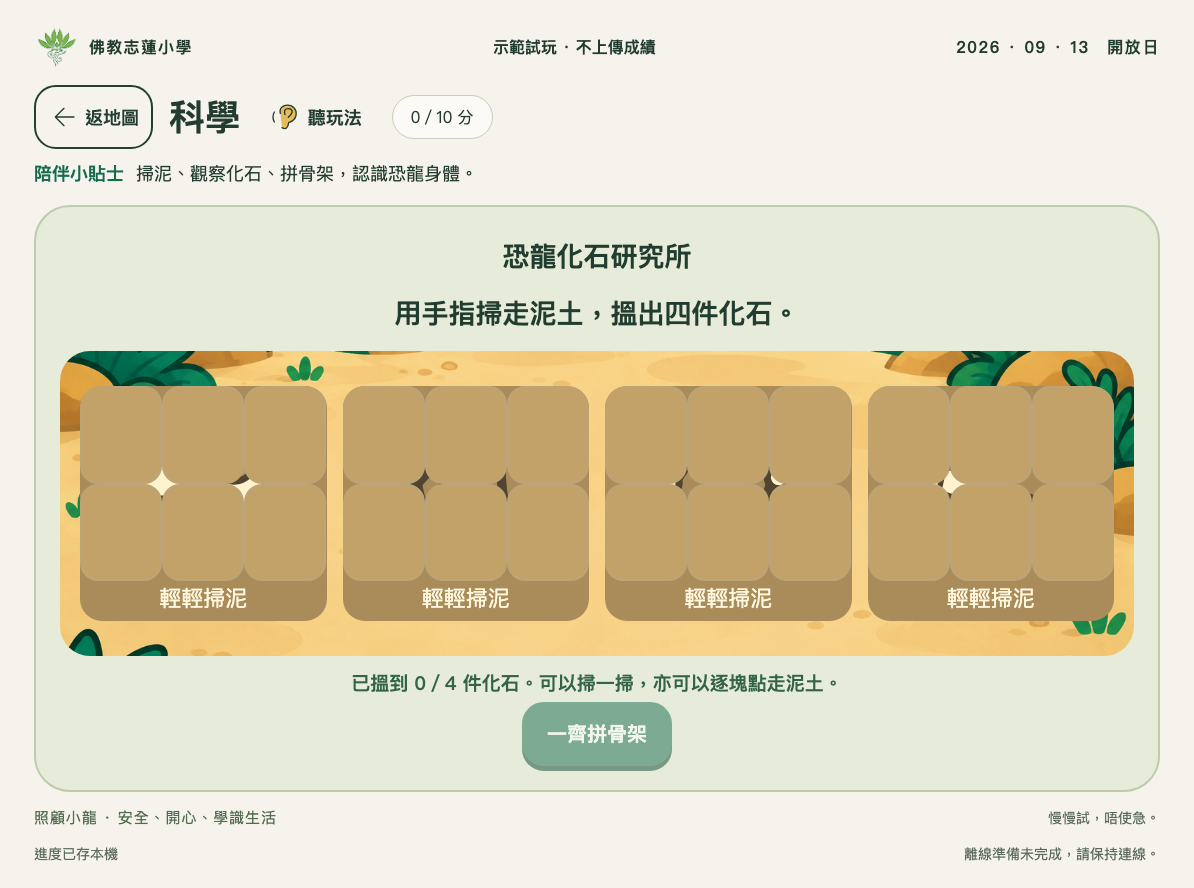
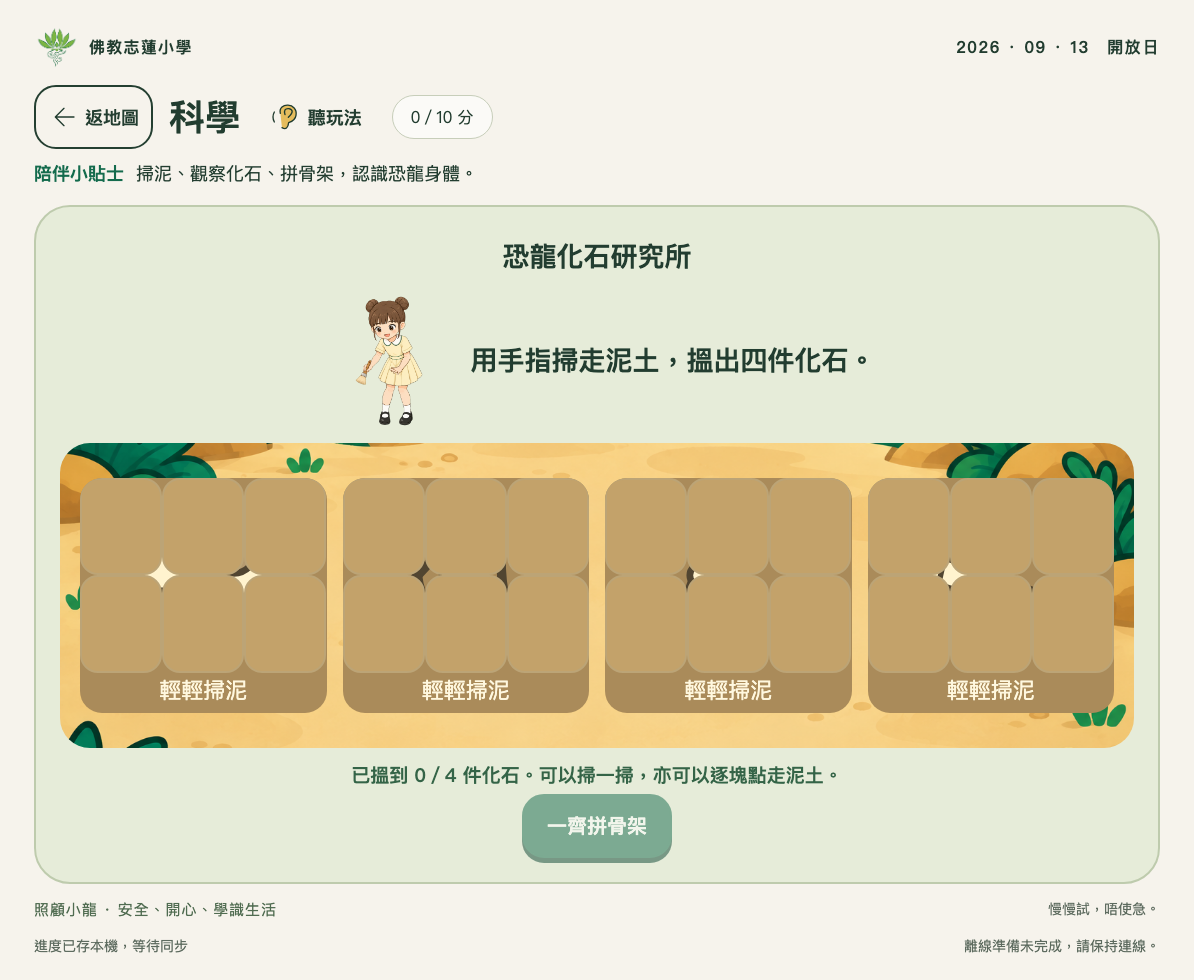
Complete explorer and scientist artwork with tested game integration

diff --git a/sw.js b/sw.js
@@ -1,7 +1,7 @@
 // Generated precache manifest. Rebuild whenever local assets change.
-const CACHE='dino-island-14a268ecd65b';
+const CACHE='dino-island-6933cd37c9b3';
 const BASE=new URL('./',self.location.href);
-const ASSETS=["board/board.css","board/board.js","board/img/board-skin.png","board/index.html","hub/app.js","hub/audio/en/actions/freeze.wav","hub/audio/en/actions/hands.wav","hub/audio/en/actions/jump.wav","hub/audio/en/actions/left.wav","hub/audio/en/actions/right.wav","hub/audio/en/actions/sit.wav","hub/audio/en/actions/stand.wav","hub/audio/yue/actions/freeze.wav","hub/audio/yue/actions/hands.wav","hub/audio/yue/actions/left.wav","hub/audio/yue/actions/right.wav","hub/audio/yue/actions/sit.wav","hub/audio/yue/characters/fire.wav","hub/audio/yue/characters/moon.wav","hub/audio/yue/characters/mountain.wav","hub/audio/yue/characters/sun.wav","hub/audio/yue/characters/water.wav","hub/audio/yue/characters/wood.wav","hub/audio/yue/common/complete.wav","hub/audio/yue/common/hint.wav","hub/audio/yue/common/retry.wav","hub/audio/yue/common/welcome.wav","hub/audio/yue/intro/art.wav","hub/audio/yue/intro/chinese.wav","hub/audio/yue/intro/computing.wav","hub/audio/yue/intro/english.wav","hub/audio/yue/intro/general.wav","hub/audio/yue/intro/humanities.wav","hub/audio/yue/intro/mandarin.wav","hub/audio/yue/intro/math.wav","hub/audio/yue/intro/music.wav","hub/audio/yue/intro/pe.wav","hub/audio/yue/intro/science.wav","hub/audio/zh-CN/greetings/goodbye.wav","hub/audio/zh-CN/greetings/hello.wav","hub/audio/zh-CN/greetings/morning.wav","hub/audio/zh-CN/greetings/please.wav","hub/audio/zh-CN/greetings/thanks.wav","hub/audio/zh-CN/greetings/welcome.wav","hub/certificate.js","hub/games.js","hub/img/chars/dino-baby-eat.png","hub/img/chars/dino-baby-sleep.png","hub/img/chars/dino-baby.png","hub/img/chars/landmark-hatch.png","hub/img/chars/landmark-longneck.png","hub/img/chars/landmark-triceratops.png","hub/img/chars/xiaolian-clap.png","hub/img/chars/xiaolian-color.png","hub/img/chars/xiaolian-highfive.png","hub/img/chars/xiaolian-point.png","hub/img/chars/xiaolian-welcome.png","hub/img/chars/xiaolian-write.png","hub/img/chars/xiaozhi-highfive.png","hub/img/chars/xiaozhi-jump.png","hub/img/chars/xiaozhi-run.png","hub/img/chars/xiaozhi-sit.png","hub/img/chars/xiaozhi-step.png","hub/img/chars/xiaozhi-stretch.png","hub/img/chars/xiaozhi-tablet.png","hub/img/chars/xiaozhi-welcome.png","hub/img/games/art/dino-hatching.png","hub/img/games/art/egg-studio.png","hub/img/games/art/xiaozhi-surprised.png","hub/img/games/chinese/dino-drinking.png","hub/img/games/chinese/dino-walking.png","hub/img/games/chinese/mountain.png","hub/img/games/chinese/river.png","hub/img/games/chinese/volcano.png","hub/img/games/computing/coding-garden.png","hub/img/games/computing/dino-robot.png","hub/img/games/english/dino-celebrate.png","hub/img/games/english/dino-hands-up.png","hub/img/games/english/dino-jump.png","hub/img/games/english/dino-left.png","hub/img/games/english/dino-right.png","hub/img/games/english/dino-squat.png","hub/img/games/general/bedtime.png","hub/img/games/general/daytime.png","hub/img/games/general/dino-playing.png","hub/img/games/general/dino-waking.png","hub/img/games/general/dino-washing.png","hub/img/games/general/morning.png","hub/img/games/humanities/river-centre.png","hub/img/games/humanities/safe-forest.png","hub/img/games/humanities/volcano-edge.png","hub/img/games/mandarin/dino-goodbye.png","hub/img/games/mandarin/dino-greeting.png","hub/img/games/mandarin/dino-listening.png","hub/img/games/mandarin/dino-thanks.png","hub/img/games/mandarin/village.png","hub/img/games/math/dino-hungry.png","hub/img/games/math/feeding-garden.png","hub/img/games/math/friend-longneck.png","hub/img/games/math/friend-triceratops.png","hub/img/games/music/dino-drum.png","hub/img/games/music/music-stage.png","hub/img/games/music/xiaolian-bell.png","hub/img/games/music/xiaozhi-percussion.png","hub/img/games/pe/dino-coach.png","hub/img/games/pe/forest-arena.png","hub/img/games/pe/forest-visitor.png","hub/img/games/science/excavation.png","hub/img/map/island-path.png","hub/img/ui/cert-frame.png","hub/index.html","hub/modules/art.js","hub/modules/chinese-scenes.js","hub/modules/computing.js","hub/modules/fossil-art.js","hub/modules/general.js","hub/modules/humanities.js","hub/modules/mandarin.js","hub/modules/math.js","hub/modules/motion.js","hub/modules/music.js","hub/modules/pe-scene.js","hub/modules/science.js","hub/park-guides.js","index.html","setup/index.html","shared/certificate-link.js","shared/config.js","shared/core.js","shared/game-clock-gate.js","shared/game-state.js","shared/icons.js","shared/img/school-logo.png","shared/models/pose-landmarker-lite-v1.task","shared/network.js","shared/offline.js","shared/pose-actions.js","shared/pose-camera.js","shared/qrcode.js","shared/recorder.js","shared/sequence.js","shared/storage.js","shared/style.css","shared/vendor/mediapipe/vision-bundle.js","shared/vendor/mediapipe/wasm/vision_wasm_internal.js","shared/vendor/mediapipe/wasm/vision_wasm_internal.wasm","shared/vendor/mediapipe/wasm/vision_wasm_nosimd_internal.js","shared/vendor/mediapipe/wasm/vision_wasm_nosimd_internal.wasm","shared/voice.js","hub/","board/","setup/"].map(p=>new URL(p,BASE).href);
+const ASSETS=["board/board.css","board/board.js","board/img/board-skin.png","board/index.html","hub/app.js","hub/audio/en/actions/freeze.wav","hub/audio/en/actions/hands.wav","hub/audio/en/actions/jump.wav","hub/audio/en/actions/left.wav","hub/audio/en/actions/right.wav","hub/audio/en/actions/sit.wav","hub/audio/en/actions/stand.wav","hub/audio/yue/actions/freeze.wav","hub/audio/yue/actions/hands.wav","hub/audio/yue/actions/left.wav","hub/audio/yue/actions/right.wav","hub/audio/yue/actions/sit.wav","hub/audio/yue/characters/fire.wav","hub/audio/yue/characters/moon.wav","hub/audio/yue/characters/mountain.wav","hub/audio/yue/characters/sun.wav","hub/audio/yue/characters/water.wav","hub/audio/yue/characters/wood.wav","hub/audio/yue/common/complete.wav","hub/audio/yue/common/hint.wav","hub/audio/yue/common/retry.wav","hub/audio/yue/common/welcome.wav","hub/audio/yue/intro/art.wav","hub/audio/yue/intro/chinese.wav","hub/audio/yue/intro/computing.wav","hub/audio/yue/intro/english.wav","hub/audio/yue/intro/general.wav","hub/audio/yue/intro/humanities.wav","hub/audio/yue/intro/mandarin.wav","hub/audio/yue/intro/math.wav","hub/audio/yue/intro/music.wav","hub/audio/yue/intro/pe.wav","hub/audio/yue/intro/science.wav","hub/audio/zh-CN/greetings/goodbye.wav","hub/audio/zh-CN/greetings/hello.wav","hub/audio/zh-CN/greetings/morning.wav","hub/audio/zh-CN/greetings/please.wav","hub/audio/zh-CN/greetings/thanks.wav","hub/audio/zh-CN/greetings/welcome.wav","hub/certificate.js","hub/games.js","hub/img/chars/dino-baby-eat.png","hub/img/chars/dino-baby-sleep.png","hub/img/chars/dino-baby.png","hub/img/chars/landmark-hatch.png","hub/img/chars/landmark-longneck.png","hub/img/chars/landmark-triceratops.png","hub/img/chars/xiaolian-clap.png","hub/img/chars/xiaolian-color.png","hub/img/chars/xiaolian-highfive.png","hub/img/chars/xiaolian-point.png","hub/img/chars/xiaolian-welcome.png","hub/img/chars/xiaolian-write.png","hub/img/chars/xiaozhi-highfive.png","hub/img/chars/xiaozhi-jump.png","hub/img/chars/xiaozhi-run.png","hub/img/chars/xiaozhi-sit.png","hub/img/chars/xiaozhi-step.png","hub/img/chars/xiaozhi-stretch.png","hub/img/chars/xiaozhi-tablet.png","hub/img/chars/xiaozhi-welcome.png","hub/img/games/art/dino-hatching.png","hub/img/games/art/egg-studio.png","hub/img/games/art/xiaozhi-surprised.png","hub/img/games/chinese/dino-drinking.png","hub/img/games/chinese/dino-walking.png","hub/img/games/chinese/mountain.png","hub/img/games/chinese/river.png","hub/img/games/chinese/volcano.png","hub/img/games/computing/coding-garden.png","hub/img/games/computing/dino-robot.png","hub/img/games/english/dino-celebrate.png","hub/img/games/english/dino-hands-up.png","hub/img/games/english/dino-jump.png","hub/img/games/english/dino-left.png","hub/img/games/english/dino-right.png","hub/img/games/english/dino-squat.png","hub/img/games/general/bedtime.png","hub/img/games/general/daytime.png","hub/img/games/general/dino-playing.png","hub/img/games/general/dino-waking.png","hub/img/games/general/dino-washing.png","hub/img/games/general/morning.png","hub/img/games/humanities/river-centre.png","hub/img/games/humanities/safe-forest.png","hub/img/games/humanities/volcano-edge.png","hub/img/games/humanities/xiaolian-explorer.png","hub/img/games/humanities/xiaozhi-explorer.png","hub/img/games/mandarin/dino-goodbye.png","hub/img/games/mandarin/dino-greeting.png","hub/img/games/mandarin/dino-listening.png","hub/img/games/mandarin/dino-thanks.png","hub/img/games/mandarin/village.png","hub/img/games/math/dino-hungry.png","hub/img/games/math/feeding-garden.png","hub/img/games/math/friend-longneck.png","hub/img/games/math/friend-triceratops.png","hub/img/games/music/dino-drum.png","hub/img/games/music/music-stage.png","hub/img/games/music/xiaolian-bell.png","hub/img/games/music/xiaozhi-percussion.png","hub/img/games/pe/dino-coach.png","hub/img/games/pe/forest-arena.png","hub/img/games/pe/forest-visitor.png","hub/img/games/science/excavation.png","hub/img/games/science/xiaolian-scientist.png","hub/img/games/science/xiaozhi-scientist.png","hub/img/map/island-path.png","hub/img/ui/cert-frame.png","hub/index.html","hub/modules/art.js","hub/modules/chinese-scenes.js","hub/modules/computing.js","hub/modules/fossil-art.js","hub/modules/general.js","hub/modules/humanities.js","hub/modules/mandarin.js","hub/modules/math.js","hub/modules/motion.js","hub/modules/music.js","hub/modules/pe-scene.js","hub/modules/science.js","hub/park-guides.js","index.html","setup/index.html","shared/certificate-link.js","shared/config.js","shared/core.js","shared/game-clock-gate.js","shared/game-state.js","shared/icons.js","shared/img/school-logo.png","shared/models/pose-landmarker-lite-v1.task","shared/network.js","shared/offline.js","shared/pose-actions.js","shared/pose-camera.js","shared/qrcode.js","shared/recorder.js","shared/sequence.js","shared/storage.js","shared/style.css","shared/vendor/mediapipe/vision-bundle.js","shared/vendor/mediapipe/wasm/vision_wasm_internal.js","shared/vendor/mediapipe/wasm/vision_wasm_internal.wasm","shared/vendor/mediapipe/wasm/vision_wasm_nosimd_internal.js","shared/vendor/mediapipe/wasm/vision_wasm_nosimd_internal.wasm","shared/voice.js","hub/","board/","setup/"].map(p=>new URL(p,BASE).href);
 self.addEventListener('install',e=>e.waitUntil(caches.open(CACHE).then(c=>c.addAll(ASSETS))));
 self.addEventListener('activate',e=>e.waitUntil(Promise.all([caches.keys().then(keys=>Promise.all(keys.filter(k=>k.startsWith('dino-island-')&&k!==CACHE).map(k=>caches.delete(k)))),self.clients.claim()])));
 self.addEventListener('message',e=>{if(e.data?.type!=='CHECK_OFFLINE'||!e.ports[0])return;e.waitUntil(caches.open(CACHE).then(async c=>{const present=await Promise.all(ASSETS.map(url=>c.match(url)));e.ports[0].postMessage({type:'OFFLINE_STATUS',version:CACHE,complete:present.every(Boolean),missing:present.filter(r=>!r).length,total:ASSETS.length});}).catch(()=>e.ports[0].postMessage({type:'OFFLINE_STATUS',complete:false,missing:ASSETS.length,total:ASSETS.length})));});

diff --git a/hub/modules/science.js b/hub/modules/science.js
@@ -7,7 +7,7 @@ export function mountScience(root,state,save,finish){
  const clearGesture=()=>{drag=null;brushing=null;selected=null;ghost?.remove();ghost=null;root.querySelectorAll('.fossil-chosen').forEach(n=>n.classList.remove('fossil-chosen'));};
  function render(){
   clearGesture();const found=parts.filter(id=>(state.cleared[id]?.length||0)===6);
-  root.innerHTML=`<h2 class="game-instruction">恐龍化石研究所</h2><p class="game-instruction">${state.phase==='dig'?'用手指掃走泥土，搵出四件化石。':state.phase==='assemble'?'睇形狀，將四件化石放返骨架。':'拼好骨架，試下想像恐龍生前嘅外形。'}</p>${state.phase==='dig'?`<div class="fossil-dig" aria-label="四個化石發掘位置">${parts.map(id=>`<div class="fossil-pit" data-pit="${id}">${fossil(id)}<div class="soil-cover">${Array.from({length:6},(_,i)=>`<button data-soil="${id}:${i}" aria-label="掃開${names[id]}位置第 ${i+1} 塊泥" ${state.cleared[id]?.includes(i)?'hidden':''}></button>`).join('')}</div><span>${found.includes(id)?'搵到'+names[id]:'輕輕掃泥'}</span></div>`).join('')}</div><p class="feedback" role="status">已搵到 ${found.length}／4 件化石。可以掃一掃，亦可以逐塊點走泥土。</p><div class="actions"><button class="primary" id="fossil-assemble" ${found.length===4?'':'disabled'}>一齊拼骨架</button></div>`:state.phase==='assemble'?`<div class="fossil-skeleton" aria-label="恐龍骨架拼合位置">${skeleton(state.placed)}${parts.map(id=>`<button class="fossil-slot fossil-${id} ${state.placed.includes(id)?'is-placed':''}" data-slot="${id}" aria-label="${names[id]}位置"><span>${state.placed.includes(id)?'✓ ':''}${names[id]}</span></button>`).join('')}</div><div class="choices fossil-tray">${['tail','legs','head','body'].map(id=>`<button class="choice" data-piece="${id}" aria-label="拿起${names[id]}" ${state.placed.includes(id)?'disabled':''}>${fossil(id)}</button>`).join('')}</div><p class="feedback" role="status">${state.placed.length===4?'骨架拼好啦！一齊睇下外形想像。':state.attempts>=2?'睇骨頭形狀，同淡色輪廓比一比。':'先點化石，再點位置；亦可以拖過去。'}</p><div class="actions">${hintLevel(state.attempts)==='guided'?'<button id="fossil-help">一齊搵相同形狀</button>':''}<button class="primary" id="fossil-reconstruct" ${state.placed.length===4?'':'disabled'}>睇外形想像</button></div>`:`<div class="fossil-reconstruction"><div class="fossil-mini">${skeleton(parts)}</div><span aria-hidden="true">→</span><img class="character" src="img/chars/dino-baby.png" alt="根據骨架作出的卡通外形想像"></div><p class="feedback" role="status">呢個係卡通外形想像，唔係恐龍復活。化石幫我哋研究以前嘅生命，認識小龍嘅身體。</p><div class="actions"><button class="primary" id="fossil-finish">完成研究任務</button></div>`}`;
+  root.innerHTML=`<h2 class="game-instruction">恐龍化石研究所</h2><div class="fossil-briefing"><img class="character fossil-guide" src="img/games/science/${state.phase==='dig'?'xiaolian':'xiaozhi'}-scientist.png" alt="${state.phase==='dig'?'小蓮用軟刷輕掃化石':'小志用放大鏡研究骨架'}"><p class="game-instruction">${state.phase==='dig'?'用手指掃走泥土，搵出四件化石。':state.phase==='assemble'?'睇形狀，將四件化石放返骨架。':'拼好骨架，試下想像恐龍生前嘅外形。'}</p></div>${state.phase==='dig'?`<div class="fossil-dig" aria-label="四個化石發掘位置">${parts.map(id=>`<div class="fossil-pit" data-pit="${id}">${fossil(id)}<div class="soil-cover">${Array.from({length:6},(_,i)=>`<button data-soil="${id}:${i}" aria-label="掃開${names[id]}位置第 ${i+1} 塊泥" ${state.cleared[id]?.includes(i)?'hidden':''}></button>`).join('')}</div><span>${found.includes(id)?'搵到'+names[id]:'輕輕掃泥'}</span></div>`).join('')}</div><p class="feedback" role="status">已搵到 ${found.length}／4 件化石。可以掃一掃，亦可以逐塊點走泥土。</p><div class="actions"><button class="primary" id="fossil-assemble" ${found.length===4?'':'disabled'}>一齊拼骨架</button></div>`:state.phase==='assemble'?`<div class="fossil-skeleton" aria-label="恐龍骨架拼合位置">${skeleton(state.placed)}${parts.map(id=>`<button class="fossil-slot fossil-${id} ${state.placed.includes(id)?'is-placed':''}" data-slot="${id}" aria-label="${names[id]}位置"><span>${state.placed.includes(id)?'✓ ':''}${names[id]}</span></button>`).join('')}</div><div class="choices fossil-tray">${['tail','legs','head','body'].map(id=>`<button class="choice" data-piece="${id}" aria-label="拿起${names[id]}" ${state.placed.includes(id)?'disabled':''}>${fossil(id)}</button>`).join('')}</div><p class="feedback" role="status">${state.placed.length===4?'骨架拼好啦！一齊睇下外形想像。':state.attempts>=2?'睇骨頭形狀，同淡色輪廓比一比。':'先點化石，再點位置；亦可以拖過去。'}</p><div class="actions">${hintLevel(state.attempts)==='guided'?'<button id="fossil-help">一齊搵相同形狀</button>':''}<button class="primary" id="fossil-reconstruct" ${state.placed.length===4?'':'disabled'}>睇外形想像</button></div>`:`<div class="fossil-reconstruction"><div class="fossil-mini">${skeleton(parts)}</div><span aria-hidden="true">→</span><img class="character" src="img/chars/dino-baby.png" alt="根據骨架作出的卡通外形想像"></div><p class="feedback" role="status">呢個係卡通外形想像，唔係恐龍復活。化石幫我哋研究以前嘅生命，認識小龍嘅身體。</p><div class="actions"><button class="primary" id="fossil-finish">完成研究任務</button></div>`}`;
   root.querySelectorAll('[data-soil]').forEach(button=>{button.onclick=()=>sweep(button);button.onpointerdown=e=>{if(e.button!==0||brushing!==null)return;brushing=e.pointerId;root.setPointerCapture(e.pointerId);sweep(button);};});
   root.onpointermove=e=>{if(e.pointerId===brushing)sweep(document.elementFromPoint(e.clientX,e.clientY)?.closest('[data-soil]'));};
   root.onpointerup=()=>{brushing=null;};root.onpointercancel=()=>clearGesture();

diff --git a/hub/modules/humanities.js b/hub/modules/humanities.js
@@ -20,7 +20,7 @@ export function mountHumanities(root,state,save,finish){
  state.round??=0;state.attempts??=0;state.roundDone??=false;let live=true,arriving=false;
  function render(){
   const task=tasks[state.round],achieved=state.round+(state.roundDone?1:0);
-  root.innerHTML=`<div class="rounds" aria-label="第 ${state.round+1} 回合，共三回合">${tasks.map((_,i)=>`<span class="round-dot ${i<=state.round?'done':''}"></span>`).join('')}</div><h2 class="game-instruction">時光探險營地</h2>${!state.started?`<div class="expedition-intro">${picture('machine')}<p>一齊玩時光機想像遊戲！<br>去恐龍島研究，幫小龍搵安全嘅生活地方。</p><button class="primary" id="expedition-start">出發去研究</button></div>`:`<p class="game-instruction">${task.title}</p><div class="expedition-camp ${arriving?'is-arriving':''}"><img class="character" src="img/chars/xiaolian-point.png" alt="小蓮帶領探險"><div class="expedition-improvements" aria-label="營地照顧成果">${achieved>=1?`<span class="${state.roundDone&&achieved===1?'camp-added':''}">${picture('camp')}安全營地</span>`:''}${achieved>=2?`<span class="${state.roundDone&&achieved===2?'camp-added':''}">${picture('bottle')}清潔飲用水</span>`:''}${achieved>=3?`<span class="${state.roundDone&&achieved===3?'camp-added':''}">${picture('forest')}樹蔭</span>`:''}</div><img class="character ${state.roundDone?'is-happy':''}" src="img/chars/dino-baby.png" alt="營地小龍"></div><div class="choices expedition-options">${state.roundDone?'':task.options.map(([id,label])=>`<button class="choice" data-expedition="${id}" aria-label="${label}">${optionPicture(id)}<span>${label}</span></button>`).join('')}</div><p class="feedback" role="status">${state.roundDone?task.reward:state.attempts>=2?task.hint:'望清楚環境，揀一樣幫小龍。'}</p><div class="actions">${!state.roundDone&&hintLevel(state.attempts)==='guided'?'<button id="expedition-help">一齊搵安全方法</button>':''}${state.roundDone?`<button class="primary" id="expedition-next">${state.round===2?'完成照顧任務':'繼續建好營地'}</button>`:''}</div>`}`;
+  root.innerHTML=`<div class="rounds" aria-label="第 ${state.round+1} 回合，共三回合">${tasks.map((_,i)=>`<span class="round-dot ${i<=state.round?'done':''}"></span>`).join('')}</div><h2 class="game-instruction">時光探險營地</h2>${!state.started?`<div class="expedition-intro">${picture('machine')}<p>一齊玩時光機想像遊戲！<br>去恐龍島研究，幫小龍搵安全嘅生活地方。</p><button class="primary" id="expedition-start">出發去研究</button></div>`:`<p class="game-instruction">${task.title}</p><div class="expedition-camp ${arriving?'is-arriving':''}"><img class="character expedition-guide" src="img/games/humanities/${state.round===1?'xiaozhi':'xiaolian'}-explorer.png" alt="${state.round===1?'小志':'小蓮'}帶領探險"><div class="expedition-improvements" aria-label="營地照顧成果">${achieved>=1?`<span class="${state.roundDone&&achieved===1?'camp-added':''}">${picture('camp')}安全營地</span>`:''}${achieved>=2?`<span class="${state.roundDone&&achieved===2?'camp-added':''}">${picture('bottle')}清潔飲用水</span>`:''}${achieved>=3?`<span class="${state.roundDone&&achieved===3?'camp-added':''}">${picture('forest')}樹蔭</span>`:''}</div><img class="character ${state.roundDone?'is-happy':''}" src="img/chars/dino-baby.png" alt="營地小龍"></div><div class="choices expedition-options">${state.roundDone?'':task.options.map(([id,label])=>`<button class="choice" data-expedition="${id}" aria-label="${label}">${optionPicture(id)}<span>${label}</span></button>`).join('')}</div><p class="feedback" role="status">${state.roundDone?task.reward:state.attempts>=2?task.hint:'望清楚環境，揀一樣幫小龍。'}</p><div class="actions">${!state.roundDone&&hintLevel(state.attempts)==='guided'?'<button id="expedition-help">一齊搵安全方法</button>':''}${state.roundDone?`<button class="primary" id="expedition-next">${state.round===2?'完成照顧任務':'繼續建好營地'}</button>`:''}</div>`}`;
   root.querySelector('#expedition-start')?.addEventListener('click',()=>{state.started=true;arriving=true;save();render();arriving=false;});
   for(const button of root.querySelectorAll('[data-expedition]'))button.onclick=()=>{
    if(!live||state.roundDone)return;

diff --git a/shared/style.css b/shared/style.css
@@ -131,3 +131,7 @@
 .pe-scene .pe-cheer{position:absolute;right:5%;bottom:6%;width:25%;height:60%;object-fit:contain;z-index:2}
 
 .band-player:not(:first-child)>.character{object-fit:cover}
+.expedition-camp>.expedition-guide{width:190px;height:190px}
+@media(max-width:600px){.expedition-camp{display:grid;grid-template-columns:repeat(2,minmax(0,1fr));justify-items:center}.expedition-camp>.character{grid-row:1;width:120px;height:140px}.expedition-camp>.expedition-guide{width:140px;height:140px}.expedition-improvements{grid-row:2;grid-column:1/-1}}
+.fossil-briefing{display:flex;align-items:center;justify-content:center;gap:12px;max-width:780px;margin:0 auto 12px}.fossil-briefing>.fossil-guide{width:140px;height:140px;flex-shrink:0}.fossil-briefing>.game-instruction{margin:0;text-align:left}
+@media(max-width:600px){.fossil-briefing{gap:4px}.fossil-briefing>.fossil-guide{width:96px;height:110px}.fossil-briefing>.game-instruction{font-size:20px}}

diff --git a/docs/V2-REVIEW.md b/docs/V2-REVIEW.md
@@ -1,6 +1,6 @@
 # 新版遊戲檢查說明
 
-更新日期：2026-09-10。分支 `game-update-v2`；目前已由 GitHub Pages workflow 發布公開預覽。正式活動前仍須完成素材及現場驗收。
+更新日期：2026-09-10。分支 `game-update-v2`；目前已由 GitHub Pages workflow 發布公開預覽。原缺漏角色素材已補齊，正式活動前仍須完成完整範圍核對及現場驗收。
 
 ## 本機檢查
 
@@ -10,12 +10,12 @@
 
 ## 已取得的驗證證據
 
-- `npm test`：45 項單元測試通過，涵蓋計分、後台計時、媒體生命週期、指令、姿態判定與描寫；新增驗收頁使用實際 Apps Script 原始碼的本機測試，包含已有玩家／Top 10 已滿，並區分連線錯誤與時間驗證錯誤。
+- `npm test`：46 項單元測試通過，涵蓋計分、後台計時、媒體生命週期、指令、姿態判定與描寫；新增驗收頁使用實際 Apps Script 原始碼的本機測試，包含已有玩家／Top 10 已滿，並區分連線錯誤與時間驗證錯誤。
 - `npm run test:browser`：同一參加者實際操作十科，驗證 5 分禁止領證、6 分證書、9 分未排名、10 分上本機榜、鎖關、虛擬拍照、待傳相片及換人。英文與普通話使用親子替代模式；榜單容量加入合成資料。
 - `npm run test:offline`：預载後模擬離線重開、11 路由／素材、模型與語音、補傳佇列、普通證書及專案子路徑；老師設定頁亦會逐項核對實際快取，缺素材時不報完成。
 - 各科瀏覽器測試與截圖在 `tests/`、`docs/screenshots/`；中文教育局動畫筆數／次序／方向核對在 `docs/chinese-stroke-sources.json`。
 - 模型發布條款及來源在 `docs/pose-dependencies.json`；Google 官方模型卡明列 Apache 2.0，授權與出處已隨模型打包。
-- 最新前端修正 `19c0dfc` 的 Pages 部署成功，公開 `asset-manifest.json` 版本為 `3032701bd6f1`。建置已清除輸出資料夾舊檔，撤下的錯誤小龍圖不再留在部署套件。
+- 本輪本機建置包含 156 項離線資源，版本 `6933cd37c9b3`；46 項單元測試、十科完整流程、離線流程及本輪人文／科學專項測試通過。建置會清除輸出資料夾舊檔，避免撤下的錯誤圖留在部署套件。公開版本以 GitHub Pages workflow 結果及線上 manifest 為準。
 - 數學模擬觸控拖放／取消、地圖完成標籤及未同步文案、拍照合成失敗／重拍恢復均已新增瀏覽器測試。合成失敗不再沿用上一張普通證書；重拍可產生 1600×2000 JPEG。
 - 真實 Google 測試證書已上傳並取回，JPEG 完全一致；重用請求 ID 可取得同一份證書。另一瀏覽器實際領證頁能顯示圖片、儲存按鈕及期限，過程沒有登入提示，但並非清空登入狀態或手機實機測試。詳見 [live-certificate-test-results.json](live-certificate-test-results.json)。
 
@@ -23,11 +23,11 @@
 
 ## 發布前仍需完成
 
-- 補齊 29 項角色指定姿勢、恐龍朋友及機械小龍，見 [ASSET-REMAINING.md](ASSET-REMAINING.md)。英文站直／停定沿用既有幼龍，人文時光機使用原創 SVG；`design/game-assets/` 按科保存清單／提示。`drafts/` 圖片透明底不合格，沒有接入遊戲，不能視為成品。
+- 原缺漏角色清單已清空，見 [ASSET-REMAINING.md](ASSET-REMAINING.md)。已批准程式去背後的 1024px RGBA 成品在 `hub/img/games/`，原始稿及奶油底檢查圖保留在 `design/game-assets/drafts/`，不直接部署草稿。各科 manifest 保存最終提示詞及接入記錄。仍需依原更新文件完成逐項交付審查，不能單憑缺檔數為零宣告完成。
 - 教師核對 39 段讀音及中文教材字形；試聽頁為 `/design/audio/review.html`。合成聲檔已有，尚未教師批准。
 - 真實 iPad 的全身動作辨識、觸控／橫直向、相機／咪權限及離線測試；家長手機下載、現場電視遠距可讀性、10 部裝置與 Google 同步／上傳負載。
 - Apps Script 第 3 版已部署，单站上限 240 秒。Chrome ITSUPPORT 已完成七項真實計時、鎖站、探索及排名檢查；測試參加者「測試2806」（ID 見 [live-google-test-results.json](live-google-test-results.json)）暫留供老師核對。
 - 尚須完成乾淨未登入環境、家長手機掃 QR／儲存、到期拒絕下載及排程刪檔、實機換人與負載驗收。真實測試證書行暫留供清理，不可只刪資料行而遺留 Drive 檔案。
-- 目前是已公開的預覽版；上述驗收完成並補齊素材後，才可宣告開放日交付完成。
+- 目前是已公開的預覽版；上述驗收及完整範圍核對完成後，才可宣告開放日交付完成。
 
 Google 操作使用校方指定 ITSUPPORT 帳戶；不把装置寫入憑證放進公開程式碼。此文件不是正式交付完成聲明。

diff --git a/docs/ASSET-REMAINING.md b/docs/ASSET-REMAINING.md
@@ -1,17 +1,11 @@
-# 尚欠遊戲素材
+# 遊戲素材完成狀態
 
-來源：`Dino Island｜11 科恐龍遊戲 Game Module Planning.md`。已按 `game-update-v2` 的 `hub/modules/` 核對。以下 4 項檔案均不存在，manifest 仍保留未完成狀態。
+來源：`Dino Island｜11 科恐龍遊戲 Game Module Planning.md`。
 
-起床小龍最初造型不一致的圖已撤下。2026-09-10 用戶批准程式去背修邊後，改用參考原定角色的新動作稿，處理成 1024×1024 真透明 PNG，已核對奶油底合成並接入常識站。此批准同樣適用後續已核對造型的角色去背；下表的「待批准」屬早期記錄，現可進行處理。
+2026-09-10：原本列出的缺漏角色動作圖已全部生成、接入對應遊戲，並保存於 `hub/img/games/`。最後四張為人文小蓮／小志探險、科學小蓮／小志研究動作。各科 manifest 保留實際檔名、提示詞、生成方式及檢視記錄。
 
-| 科目 | 尚欠檔案（相對 hub/img/） | 現時暫代 | 所需動作／主體 | 下一步 |
-|---|---|---|---|---|
-| humanities | `games/humanities/xiaolian-explorer.png` | `chars/xiaolian-point.png` | 小蓮探險引導 | 製作真透明角色圖 |
-| humanities | `games/humanities/xiaozhi-explorer.png` | `chars/xiaozhi-welcome.png` | 小志探險 | 製作真透明角色圖 |
-| science | `games/science/xiaolian-scientist.png` | `chars/xiaolian-point.png` | 小蓮科學家 | 製作真透明角色圖 |
-| science | `games/science/xiaozhi-scientist.png` | `chars/xiaozhi-welcome.png` | 小志科學家 | 製作真透明角色圖 |
+所有本批角色均按已批准的新角色參考延伸，保留校服及身份；已依用戶批准進行程式去背修邊，輸出 1024×1024 真透明 PNG，並核對奶油底合成。原始生成稿及合成檢查圖保留於 `design/game-assets/drafts/`。
 
-`pe.json` 的 `friendly-trex` 已有 `kind: "scene"`，正確指向 `games/pe/forest-visitor.png`，不是欠缺的角色 sprite。
+已重用角色：英文站直／停定使用現有小龍，體育動作重用英文新姿勢；人文時光機、營地成果及科學骨架使用原創 SVG。科學軟刷、放大鏡、筆記本已畫入研究角色素材。
 
-
-已核對並重用：英文站直／停定使用現有 dino-baby.png；人文時光機使用原創 SVG。起床、機械小龍、打鼓及跳躍小龍已完成獲批去背並接入。
+此記錄只代表原素材缺漏清單已清空，唔代表全項目驗收完成。仍需按原更新文件逐項核對完整交付範圍，並完成校方字音／字形審閱、實機操作、後台負載及證書到期清理驗收。
